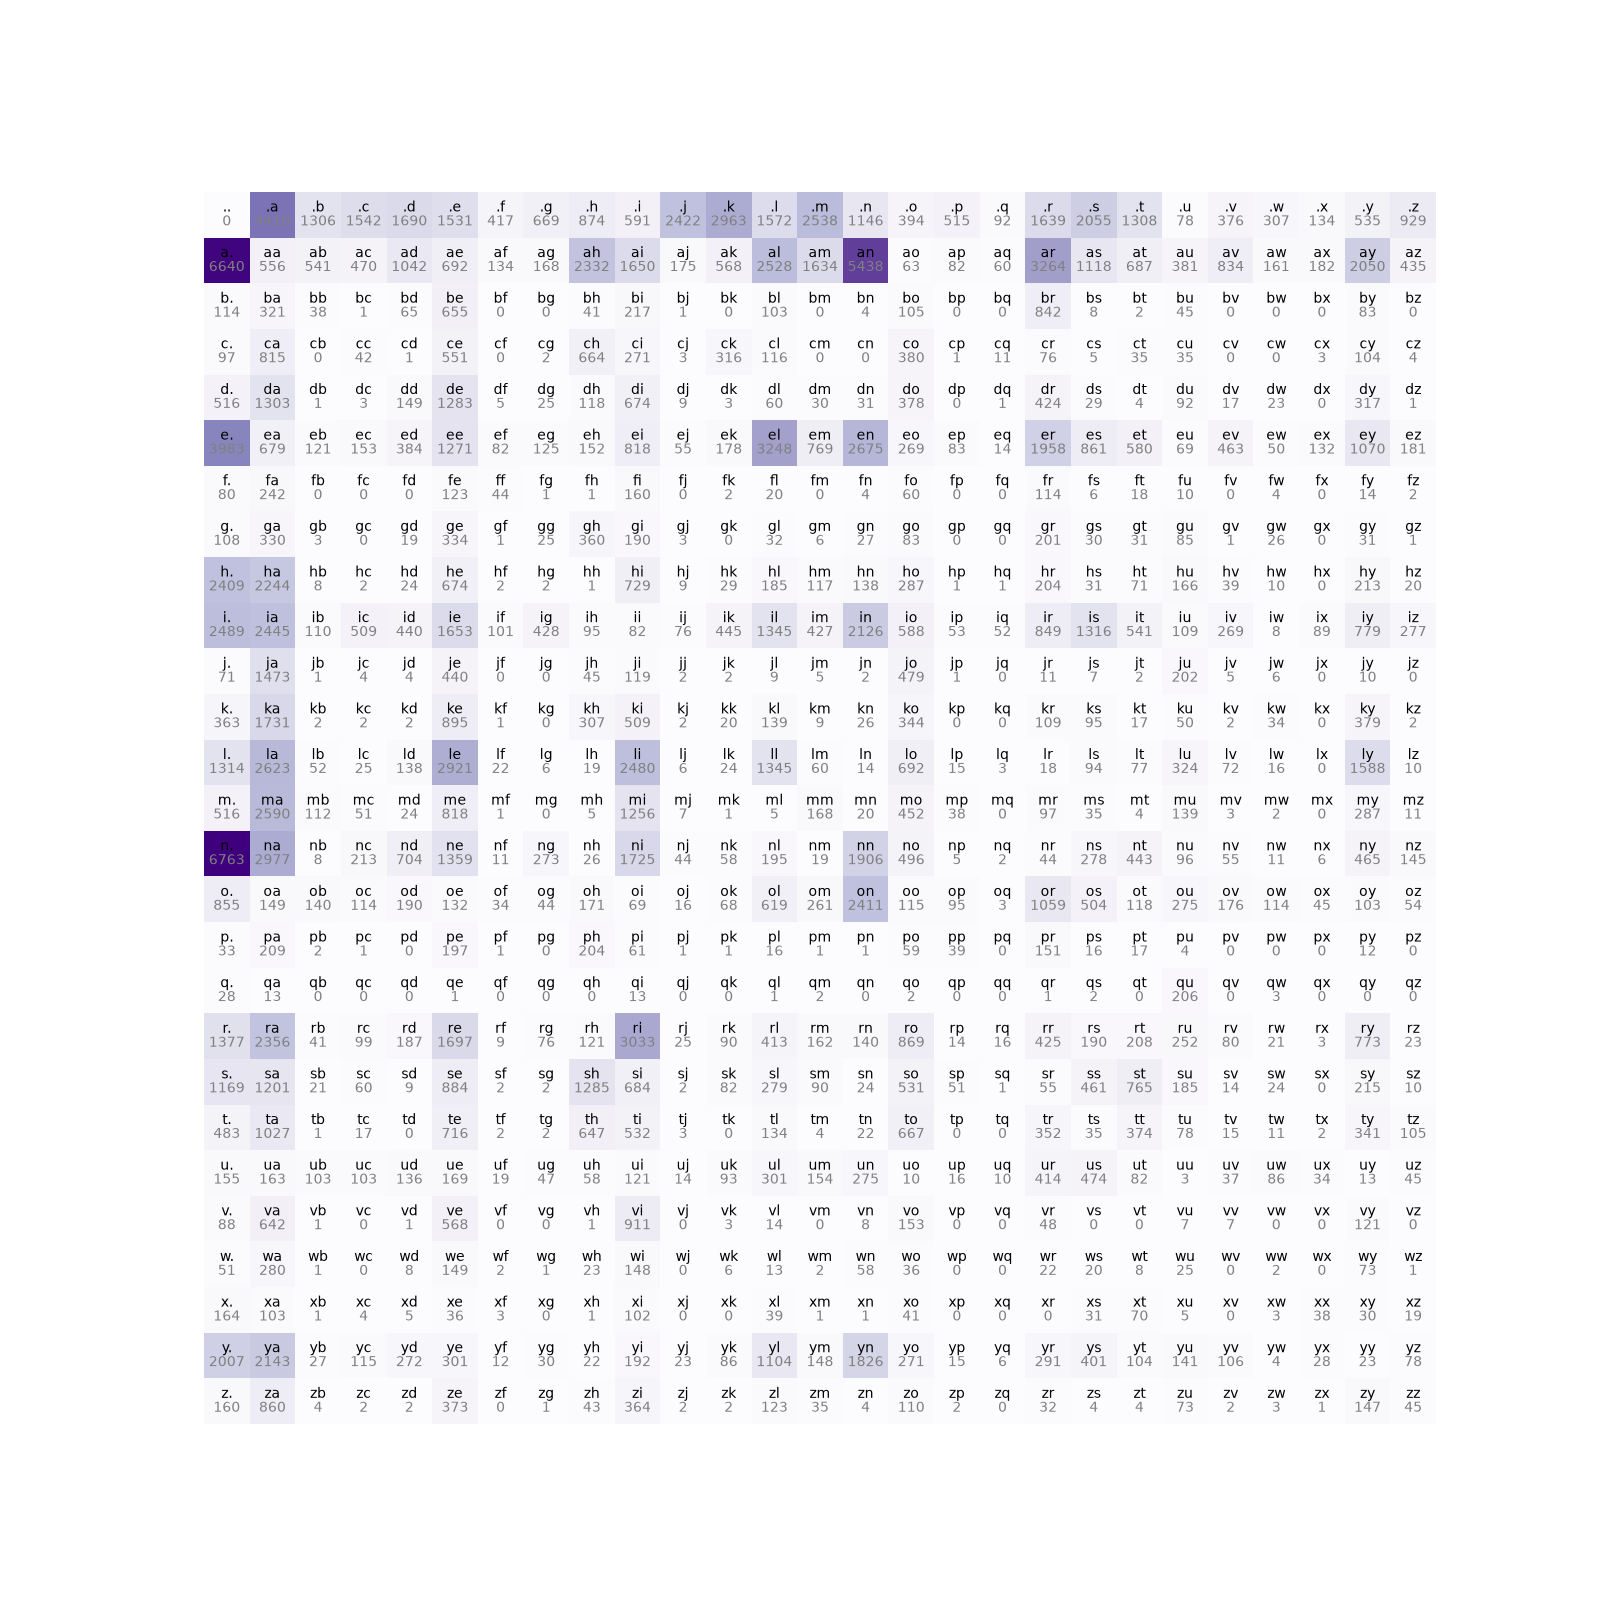
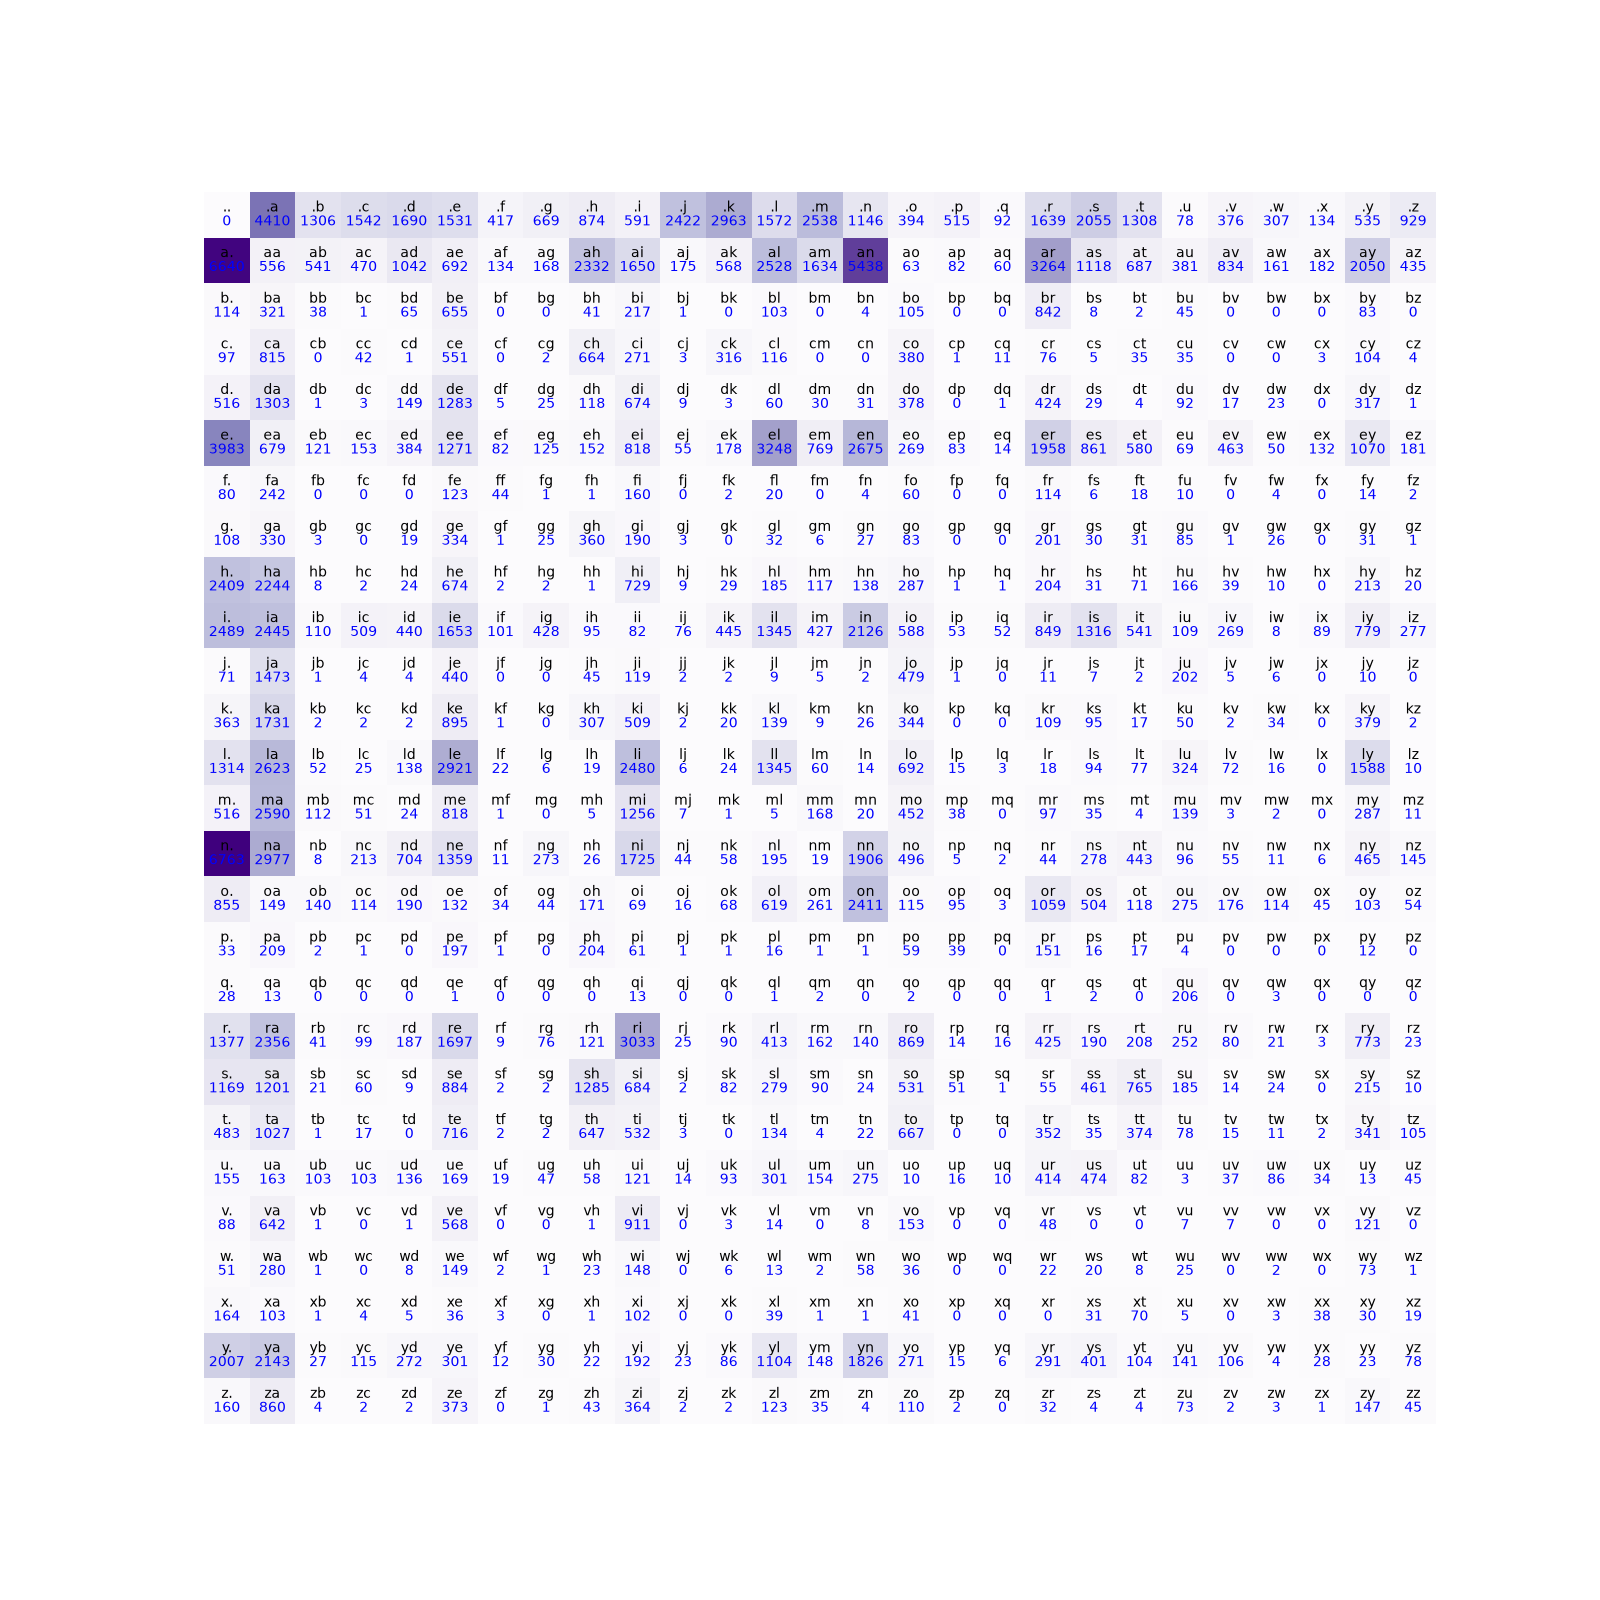
hafta 3: NLL + perplexity, one-hot ile NN bigram kurulumu
- log_likelihood / nll / average nll hesaplandi, perplexity eklendi
- one-hot encoding, W (27x27), logits -> exp -> normalize (softmax)
- N_matrix gorseli yeniden uretildi

diff --git a/hafta_3_makemore/makemore.py b/hafta_3_makemore/makemore.py
@@ -1,5 +1,9 @@
+import math
+
 import torch
 import matplotlib.pyplot as plt
+import torch.nn.functional as F
+
 
 with open("names.txt") as f:
     lines = f.readlines()
@@ -62,7 +66,7 @@ for i in range(27):
     for j in range(27):
         chstr = itos[i] + itos[j]
         plt.text(j, i, chstr, ha="center", va="bottom", color="black")
-        plt.text(j, i, N[i, j].item(), ha="center", va="top", color="gray")
+        plt.text(j, i, N[i, j].item(), ha="center", va="top", color="blue")
 plt.axis("off")
 plt.savefig("output/N_matrix.png")
 
@@ -79,8 +83,10 @@ plt.savefig("output/N_matrix.png")
 # torch.multinomial(p, num_samples=20, replacement=True, generator=g)
 
 # we added 1 to N to avoid zero probabilities
+# it is called Laplace smoothing
 P = (N+1).float()
 P /= P.sum(1, keepdim = True)
+
 
 g = torch.Generator().manual_seed(2147483647)
 
@@ -117,21 +123,33 @@ print(f"log_likelihood: {log_likelihood}")
 # negative log likelihood because we are maximizing log likelihood
 nll = -log_likelihood
 print(f"nll: {nll}")
-print(f"average nnl: {nll / n}")
+# perplexity i guess ? look after that ??????
+# ??????????
+# ?????????
+# ?????????
+# ?????????? CHECK OUT UNDER
+print(f"perpelexity: {math.exp(nll/n)}") # in literature NLL is nll/n, avarage nll
+print(f"average nll: {nll / n}")
 
+# create the training set of bigrams (x,y)
+xs, ys = [], [] # int,int
 
-# create the training set of bigrams
-
-xs, ys = [], []
-for w in words[:1]:
+for w in words:
     chs = ["."] + list(w) + ["."]
     for ch1, ch2 in zip(chs, chs[1:]):
         ix1 = stoi[ch1]
         ix2 = stoi[ch2]
-        print(f"{ch1}{ch2}")
         xs.append(ix1)
         ys.append(ix2)
 
 xs = torch.tensor(xs)
 ys = torch.tensor(ys)
-print(xs, ys)
+
+
+xenc = F.one_hot(xs, num_classes=27).float()
+W = torch.randn((27, 27), generator=g)
+logits = xenc @ W # matrix mult
+count = logits.exp() # exponentiate for positive values
+prob = count / count.sum(dim=1, keepdim=True) # normalize to get probabilities(softmax)
+loss = -prob[torch.arange(len(prob)), ys].log().mean()
+print(f"loss: {loss}")
